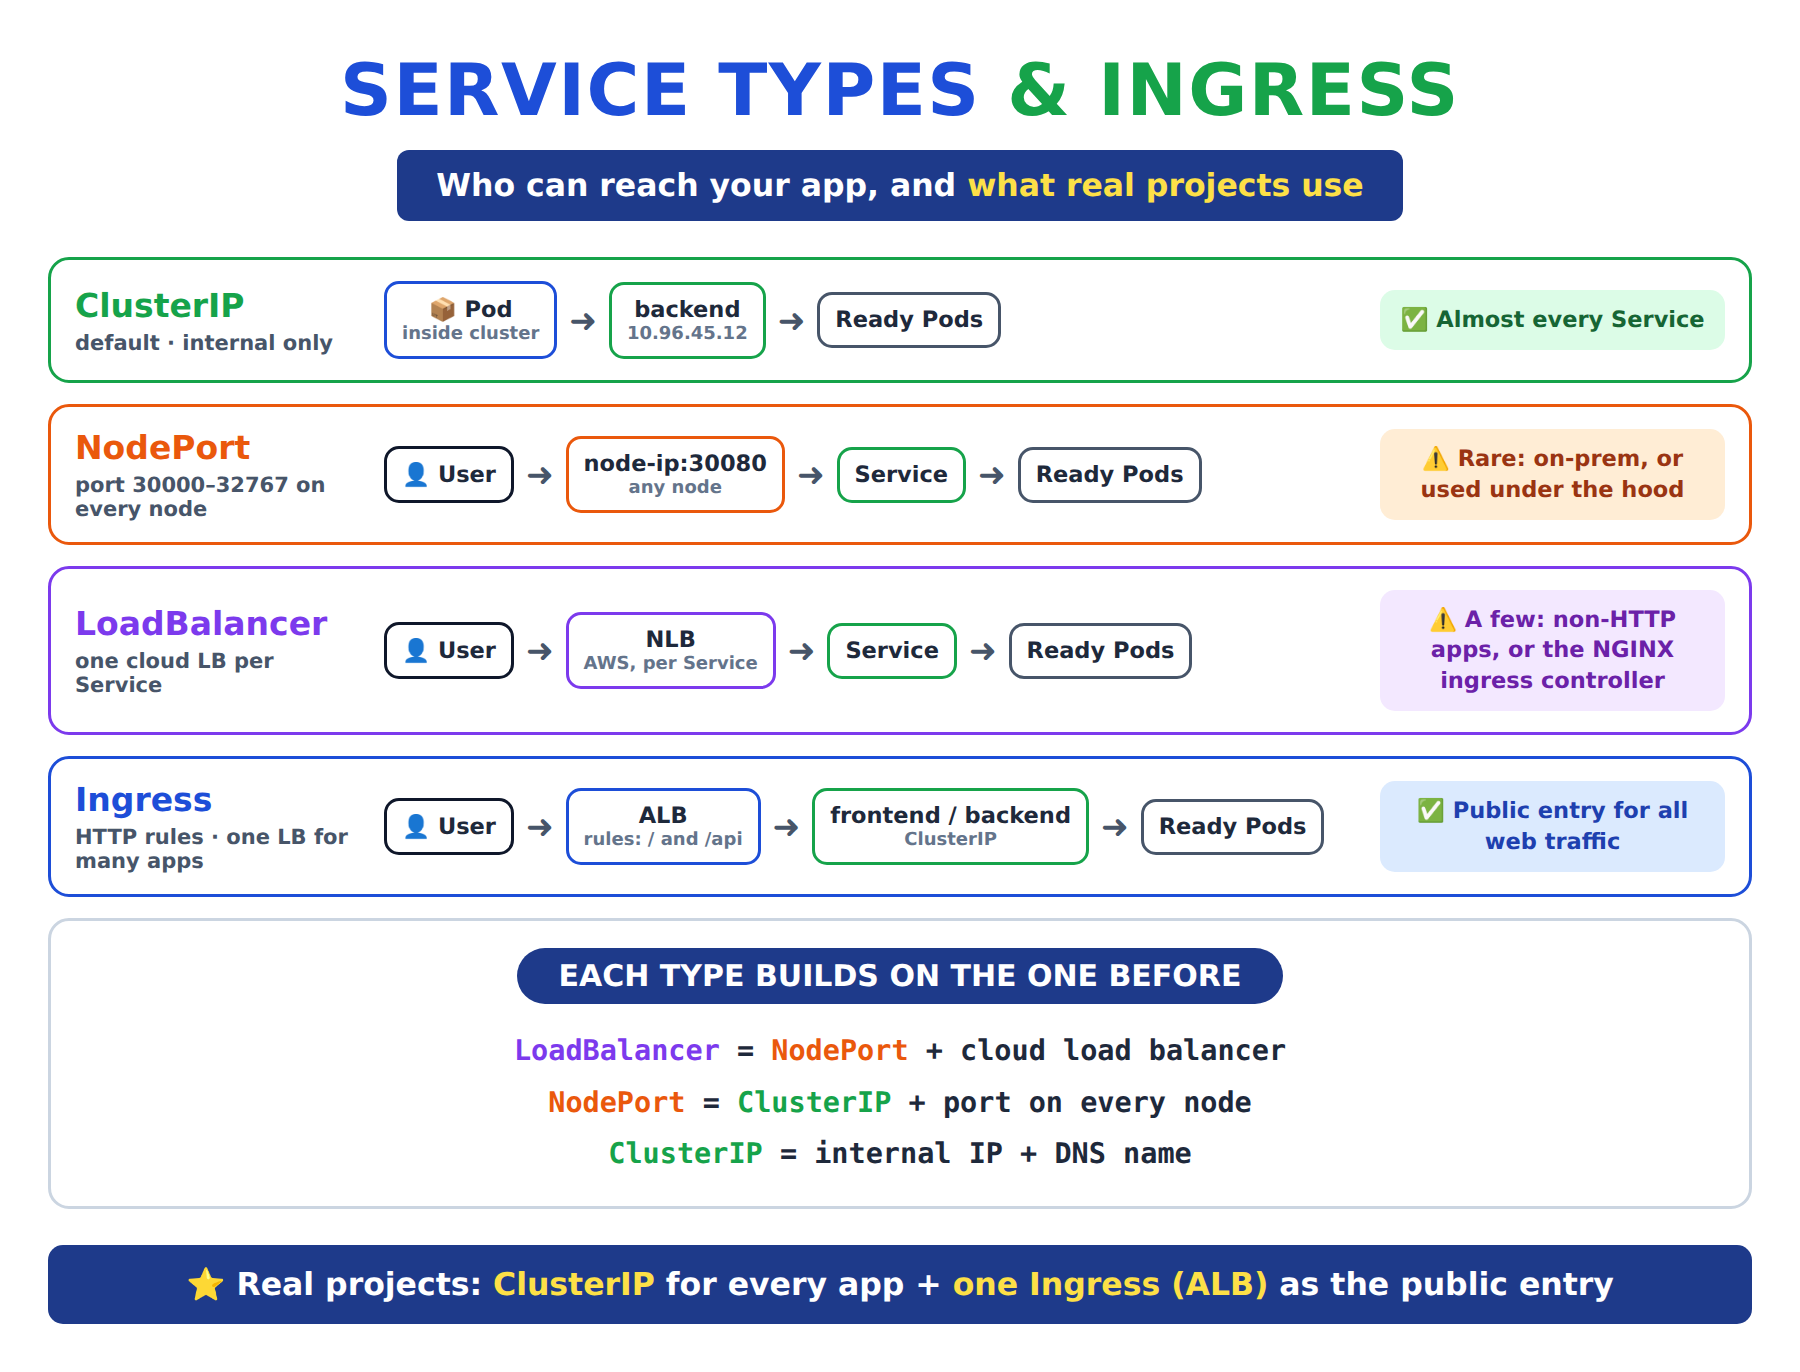
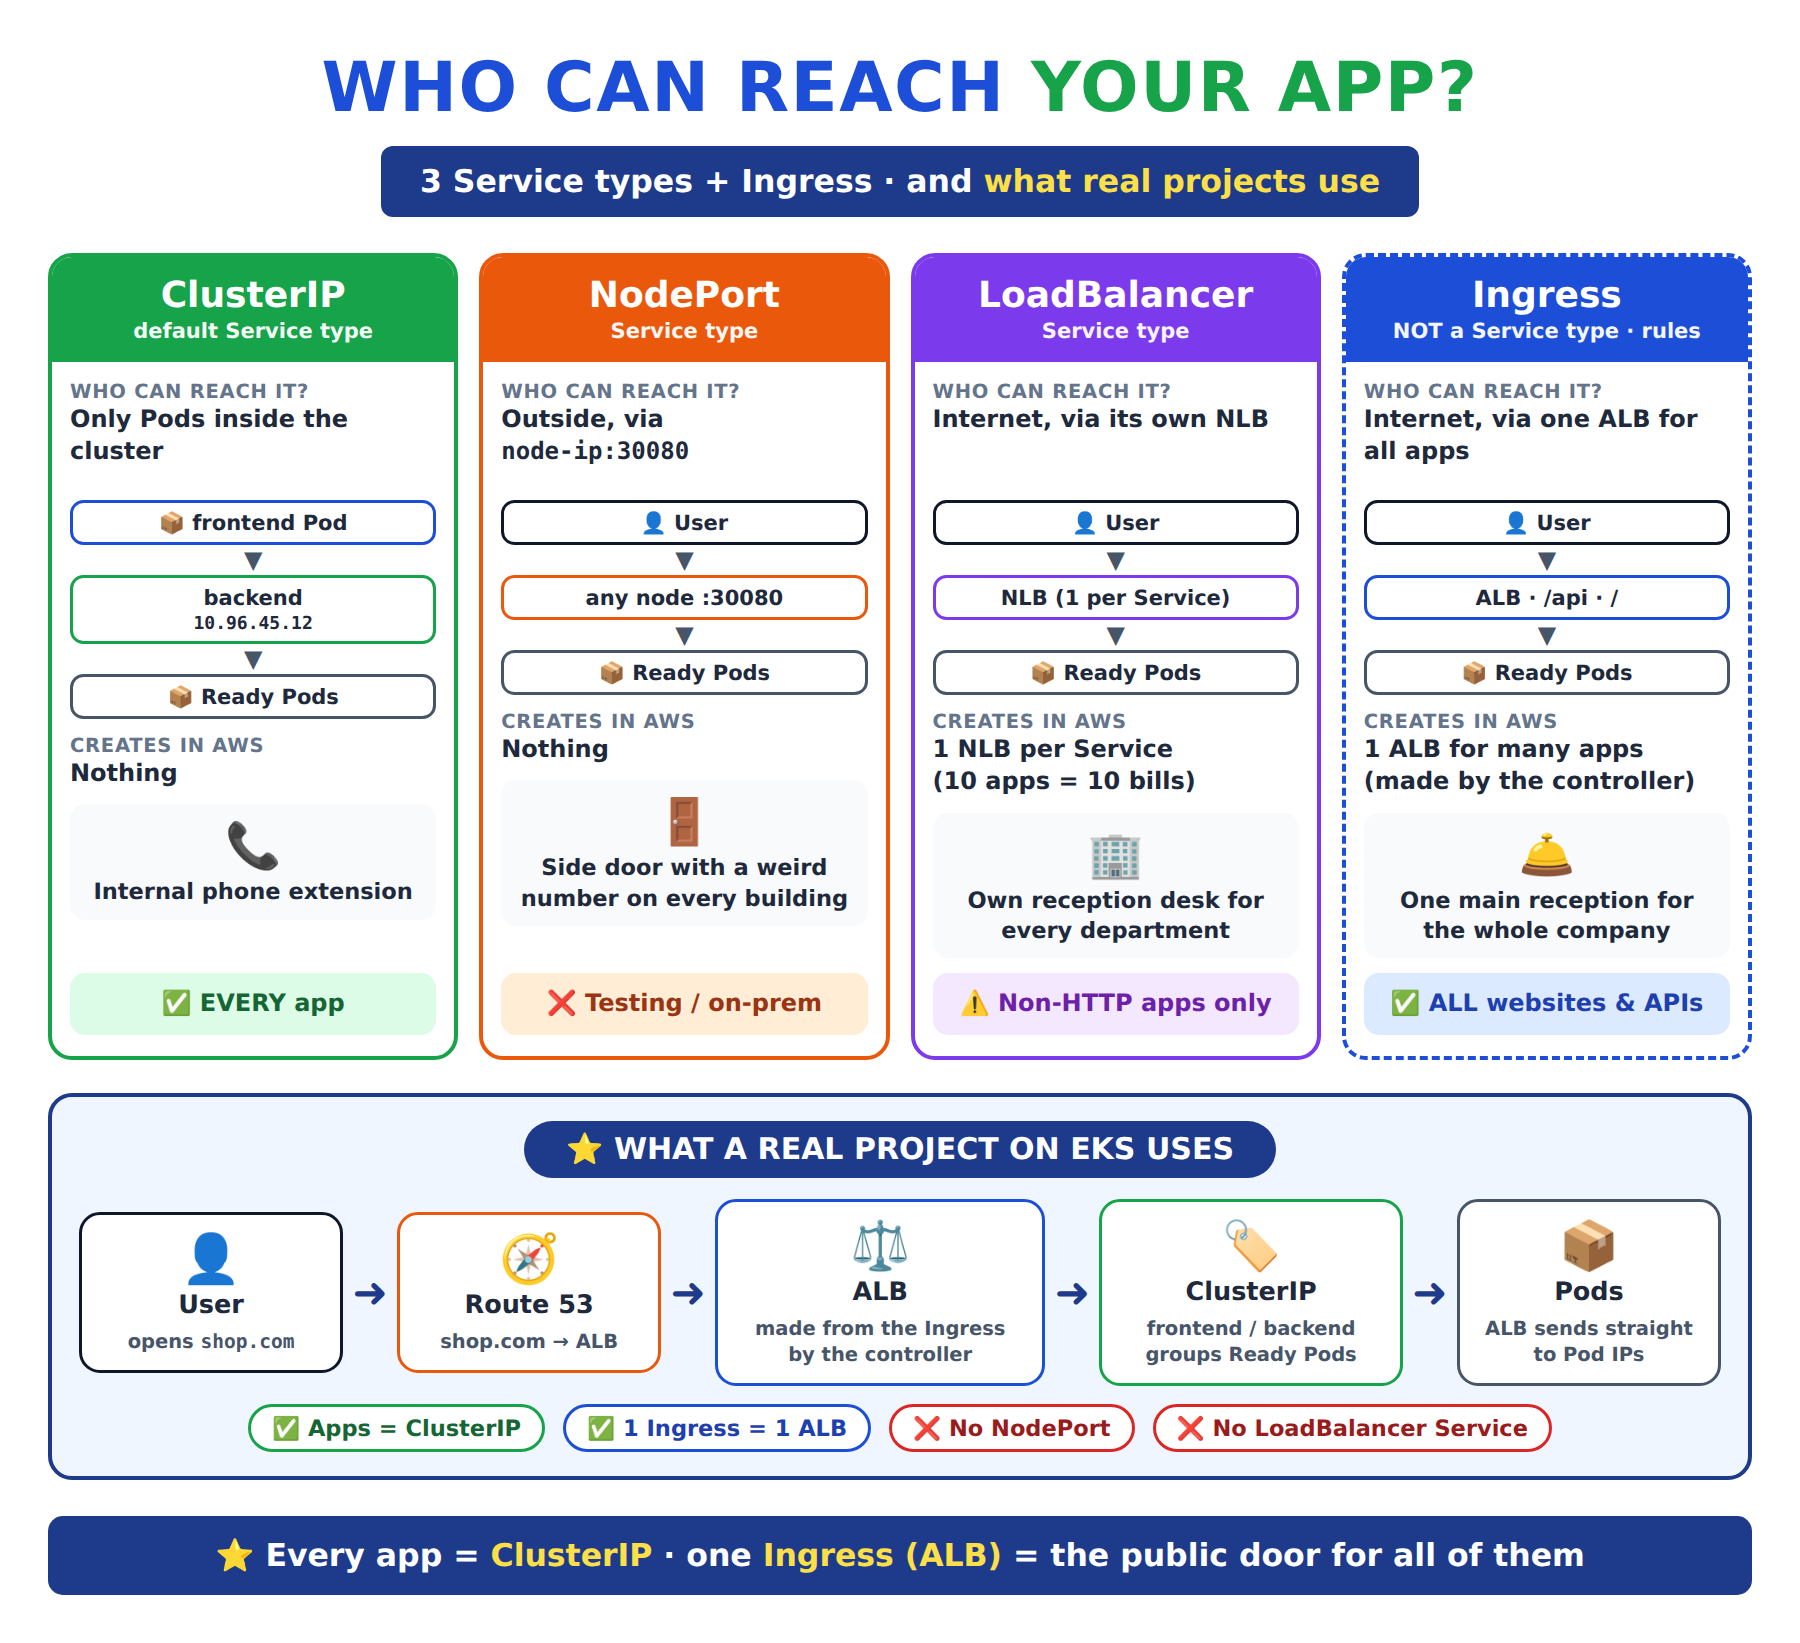
Services: clearer service types diagram

diff --git a/day-22-kubernetes/day-25-services-types-and-traffic-flow/README.md b/day-22-kubernetes/day-25-services-types-and-traffic-flow/README.md
@@ -148,6 +148,8 @@ The **ClusterIP Service** still matters: it **groups the Ready Pods**, and the c
 
 ### Step 7: Cheat sheet
 
+![Who can reach your app: Service types and Ingress](images/service-types.png)
+
 | Type | Who can reach it | Creates in AWS | When to use |
 |---|---|---|---|
 | **ClusterIP** | Only Pods inside the cluster | Nothing | ✅ **Every app** (default) |
